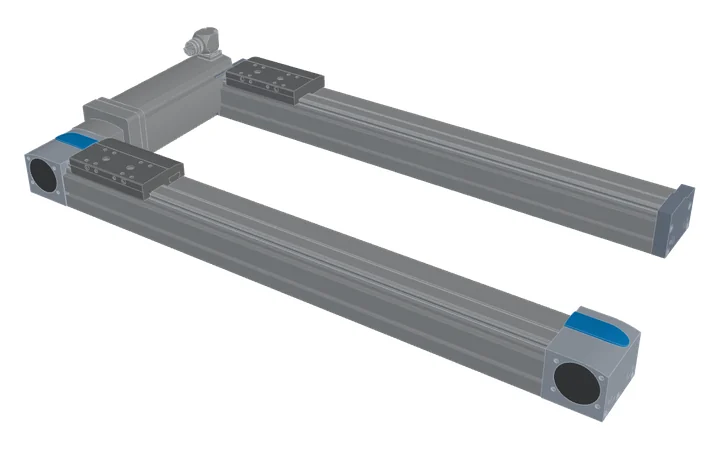
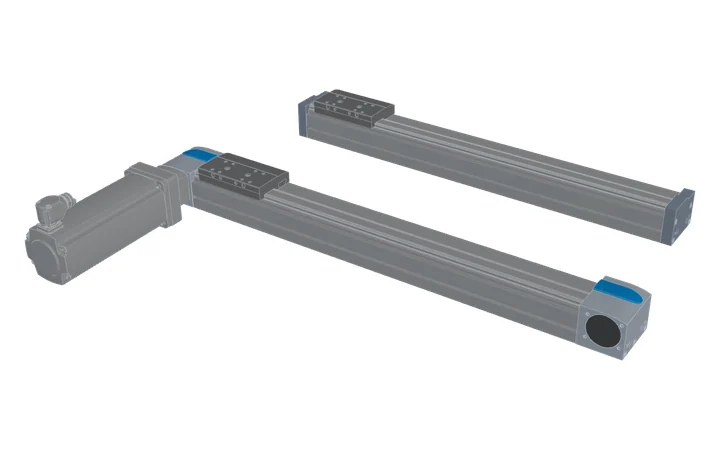
축 구성 help: picking a card sets the arrangement; motors of the twin and guide pictures turned outwards, clear of the other axis
Claude-Session: https://claude.ai/code/session_01H7nF5r8e2hD9Sm53hLJCce

Changed region(s): [[0.0306, 0.0622, 0.9167, 0.9333], [0.4278, 0.3111, 0.9778, 0.5911]]

diff --git a/src/ui/InputPanel.tsx b/src/ui/InputPanel.tsx
@@ -308,13 +308,20 @@ export function ParallelSection({
       <h2>
         {t(title)}
         <HelpTip title={t(title)}>
-          <div className="config-grid">
+          <div className="config-grid" role="radiogroup" aria-label={t(title)}>
             {(Object.keys(parallelModeLabel) as ParallelMode[]).map((m) => (
-              <div key={m} className={`config-card${m === parallel.mode ? ' active' : ''}`}>
+              <button
+                key={m}
+                type="button"
+                role="radio"
+                aria-checked={m === parallel.mode}
+                className={`config-card${m === parallel.mode ? ' active' : ''}`}
+                onClick={() => m !== parallel.mode && setParallel('mode', m)}
+              >
                 <img src={parallelModeImage[m]} alt="" />
                 <strong>{t(parallelModeLabel[m])}</strong>
                 <span>{t(parallelModeHint[m])}</span>
-              </div>
+              </button>
             ))}
           </div>
         </HelpTip>

diff --git a/src/index.css b/src/index.css
@@ -508,7 +508,7 @@ h3 {
   width: min(760px, calc(100vw - 32px));
 }
 
-/* 축 구성 help: one card per arrangement, the current one marked */
+/* 축 구성 help: one card per arrangement, the current one marked; picking one sets the arrangement */
 .config-grid {
   display: grid;
   grid-template-columns: repeat(auto-fit, minmax(260px, 1fr));
@@ -522,8 +522,17 @@ h3 {
   padding: 8px;
   border: 1px solid var(--line);
   border-radius: 8px;
+  background: none;
+  font: inherit;
   font-size: 12px;
   color: var(--muted);
+  text-align: left;
+  cursor: pointer;
+  transition: border-color 150ms ease-out;
+}
+
+.config-card:hover {
+  border-color: var(--line-strong);
 }
 
 .config-card.active {

diff --git a/CLAUDE.md b/CLAUDE.md
@@ -106,4 +106,4 @@ uvx … python scripts/interference/couplings.py   # exact coupling/kit overlap 
   - `types.ts`: `Requirements`, `Settings` with Excel-derived defaults, and the `Check`/`Status` model. A hard limit fails as `fail`. Deflection, rated-speed, regeneration and constant-velocity torque above the rated torque (`등속 구간 토크`; catches a long overloaded constant segment that a long dwell hides in the RMS) only `warn`; `Settings.conservative` (상세 설정 보수적 판정) makes the constant-velocity torque check `fail`. A missing data limit gives `ok` with a note.
 - `src/cad/`: CAD assembly. `combo.ts` `comboParts` places one axis's parts (and returns its slide and profile frames); `buildCombo` writes them out, `gantry.ts` combines several. `step.ts` reads/writes STEP Part 21 text (entity map, references, arguments); `structure.ts` finds product definitions, shape representations and solids. `stretch.ts` (`stretchPart`) changes a prismatic profile body's length in the text: points beyond a cut move along the axis, the cut sits where only axis-parallel lines cross it (edge extents from vertices, circle reach r·√(1−n_k²), arcs only where that extreme lies on them); shortening drops bounds and faces lying entirely in the removed window. A hole pattern (`patternOf`: bounds of the same shape across the axis repeating at one pitch, 3+ in a row; ELGT 100, EGC-HD 40/60) is kept: n whole pitches at a cut inside the pattern where the pitch before it repeats after it (`periodic`; lengthening fills the gap with copies of that pitch, `copyWindow`; shortening removes pattern only, so one-off features such as the ELGT-160 centring slot keep their place), the rest between the pattern and the moving end (n rounded, else floored/ceiled; no fit → the plain single cut). The spec is in file coordinates (turned into the part's own by its placement, `structure.ts` `placementOf`); `also` stretches further parts (ESBF piston rod), `move` shifts the placements of the parts at the moving end (end caps, the slide), and `stretchedOrigin` moves a drive or slide frame lying there (`buildCombo`). `assemble.ts` copies each part file with offset ids under a new top assembly (AP203 `CONFIG_CONTROL_DESIGN`, mm, NAUO + `ITEM_DEFINED_TRANSFORMATION` per part, ASCII-only names, the parts' licence lines in `FILE_DESCRIPTION`). `drawings.ts` lists the files (`import.meta.glob` `?url`, loaded on demand) and matches them to the selection; `combo.ts` (`buildCombo`) places axis → kit → (gearbox →) motor by `geometry.mate` of their frames, turns the axis's own jaw coupling hub (ELGT-BS / ELGD-BS files, `AxisMeta.coupling`) so its jaws mesh with the kit hub's (`KitMeta.coupling`, `turnHub`; Festo EAMM-A and Festo Korea's GT…/GD… SA kits), moves a coupling filed reaching into the axis to the middle of the kit housing (`KitMeta.couplingShift`, `placeCoupling`: EAMM-A-D50/-D60/-S60 to the middle of the housing, others touching a shaft end or cover by the least that clears it, from `scripts/festo-cad/couplings.mjs`), takes the cover cap off the shaft end the kit goes on where the head is capped on both sides (EGC-HD-TB; ELGT-TB-120/-160-…-CS, whose Creo files name the caps by part number 2493424/2493425), orients the axis by the mounting (world Z up; floor: travel +X, slide normal +Z; wall: normal −Y; vertical: motor on top, normal −Y; slide centre at the origin) and puts the COG at travel·x + (normal × travel)·y + normal·z. `occt.ts` tessellates the assembled STEP with occt-import-js (OpenCascade WASM, lazy) in a web worker (`occt.worker.ts` → `occtMesh.ts`; typed arrays transferred back, the 3D view's edge lines computed there too; on the calling thread where there is no `Worker`, as in tests) and tags meshes by part; `dxf.ts` draws front/top/right/bottom views (third-angle; the bottom view below the front view shows the mounting holes) from those meshes: B-rep face borders above 10° plus outlines (front/edge-on/back changes, so rounded profile corners and edge-on faces show), hidden parts removed with a CPU depth buffer (3×3 neighbourhood minimum; no hidden lines, an assembly outline drawing), collinear pieces merged, as DXF R12 on a sheet after KS A 0005 / KS B 0001 / KS A 0106 (`drawingDxf`): model space full size, the sheet drawn at the scale (paper mm × denominator, `$LTSCALE`); the smallest A3–A0 landscape sheet on which the views fit at 1:3 or larger (recommended scales 2:1 … 1:500 plus 1:3), else A0 at its best scale, the views above or left of the title block column; border 0.7 mm with 20 / 10 mm margins and a 25 mm filing margin, centring marks; outlines thick (0.5 mm wide polylines), dimensions thin with filled arrows (height on the front view, depth on the top view, length below the bottom view, each once, values in mm without unit; the stroke `STROKE n` between the slide centre at its start and end, `Combo.stroke`, above the front view; the axis's mounting holes on the bottom view, `mountingHoles` on the axis part's meshes (`DrawingInput.axisMeshes`): vertical cylinder walls, split arcs merged, opening within 1.5 mm of its underside; the pitch chain of the longest row of the commonest size from axis end to end, equal pitches as `n×p(=total)`, the row spacing on the right and an `n×Ød` callout per size), COG as thin two-dot chain lines (PHANTOM) with a circle; title block (170 mm: TITLE, DWG. NO., SCALE, third-angle symbol, UNIT mm, DATE), parts list above it (NO., PART, MODEL / TYPE, QTY, header at the bottom), the specification table above that (`DrawingInput.specs`, from step 5: stroke, product mass, payload, ball screw lead / diameter or pulley diameter / feed, max. speed at the stroke, max. permissible acceleration, max. feed force, repeatability, operating speed / acceleration) and the notes (ASCII text; layers OUTLINE, DIM, COG, COG-MARK, TEXT, BORDER, TITLE). `layoutSheet` lays the sheet out as primitives (`Sheet`), written as DXF (`toDxf`) or, by `drawingPdf.ts` (jsPDF, lazy), as a PDF page of the sheet size at the drawing scale (black, thick lines at their width, thin 0.25 mm, COG dashed two-dot chain; the sheet's words in the app language, `SheetLabels` from `useComboPreview` `sheetLabels`, the DXF keeps the English `DEFAULT_LABELS`): step 5's PDF 도면 내보내기 next to DXF 내보내기. The PDF's font is Malgun Gothic from the user's own fonts (`loadKoreanFont`: Local Font Access, asked within the click; Microsoft's licence does not allow shipping it), else the bundled Pretendard TTF (OFL, `?inline`, lazy); jsPDF embeds only the glyphs used. `cad.test.ts` builds the real combination and reads it back with OpenCascade.
 - `src/i18n/`: Korean/English. Korean source strings are the translation keys: components call `useT()` and write `t('스트로크')` or `t('적합 {pass}', { pass })`; `en.ts` holds the English. Calc labels and notes stay Korean (`Check.note` may have `{name}` placeholders filled from `noteArgs`) and are translated where shown, so lookups like `c.label === '관성비'` keep working. `translateData` handles the Korean words in product data (motor series/description). `i18n.test.ts` fails when a Korean string literal in `src/` has no English entry, or when Korean sits outside a string (JSX text) or in the static part of a template literal. Add the English to `en.ts` with any new UI text. The language toggle is in `RouteRail`; the choice is kept in localStorage and sets `<html lang>`. The PDF report follows the current language.
-- `src/ui/` contains the React components. `App.tsx` holds the inputs (`req`, `settings`, language) and wraps `Workspace` (selection state, calculation, results, rail, report; auto-selects the first passing axis) in `ErrorBoundary`: a render or calculation error shows the inputs plus an error panel instead of a blank page, and editing an input retries. `InputPanel.tsx` is three boxes: 사용 조건 (acceleration entered as 가속도 or as 가속 시간 to reach the velocity; time mode converts with `accelerationForTime`, jerk included, so `Requirements.acceleration` stays the only calc input; the jerk field's hint gives the S-curve share of the acceleration time, `sCurveShare`: 0% trapezoidal, 100% no constant-acceleration part, on both screens) + 부하 무게 중심 (the 무게 중심 입력 가이드 image in its help popup: guidance text sits behind the ? beside a title, `HelpTip` in common.tsx or `NumberField` `help`, in the `.notice` dialog; `hint` under a field is for live values, warnings stay inline; 축 구성's popup shows every arrangement with its picture, `images/parallel_*.webp`, EGC-80 belt axes rendered from the step 5 3D view); 어플리케이션 선택 (일반 / 프레싱, with the press inputs and, on a vertical axis, 압착 방향); and a collapsible 상세 설정 box. Axis/motor filters (`Settings.families`, `makers`, …; ESBF is hidden while 벨트 is on) are toggle buttons in each step's header (column sorting compares the numbers in names by value, `useSort`: sizes 60, 80, 120, 160; Festo motors of one size by length S, M, L, H, `MotorStep` `lengthOrdered`); 볼스크류 / 벨트, the motor maker and the motor series are one-of choices (`RadioGroup`); picking a series switches the supply to one it runs on (the current one if it does, `MotorStep` `supplyFor`) and disables the supplies it has none for. Defaults (`defaultSettings`): 볼스크류 + ELGT, Festo EMMT-AS (Festo series listed EMMT-AS, -ST, -EC, EMMB-AS, -ST, EMMH-AS, `motorFamilies`), AC 380–480 V; acceleration 2 m/s² on both screens. Calc tests open every filter. `RouteRail.tsx` is the sticky top rail: four route signs (selected part number, verdict, tightest check) that scroll to their step and highlight the step in view, plus PDF로 내보내기 and the English/한국어 switch (PDF export is blocked with a notice until axis, motor and kit are selected; `App.tsx` mounts `Report.tsx` off screen in `.report-stage`, `pdfExport.ts` renders each chapter to an image with `modern-screenshot` and lays them on A4 pages with `jspdf`, both lazy-loaded, then opens the PDF in a new tab. Chapter 1's 웹에서 이 계산 열기 line becomes a PDF link to the same calculation (`pdfExport` lays a link area over each `.report-link`): `src/share.ts` packs the screen's inputs and choices (single axis: `req`, `settings`, picks, profile view, assembly; gantry: inputs, per-axis settings, picks, views, assemblies, open tab) as deflated JSON, base64url, in `?r=`; `main.tsx` reads it (`readShared`, fields added since filled from the defaults) before `App` mounts and takes it out of the address. The calculation report: 1 입력 데이터·선정 모델 (the arrangement lists the EAGF as 가이드 유닛; the settings leave out 보수적 판정), 2 모션 프로파일, 3 축, 4 모터 and, for Festo motors, a second 4 page 드라이브 · 케이블 · 제동저항, 5 감속기 (the selected gearbox only, with its own checks from `gearboxChecks`), 6 연결키트 (with the assembly orientation and its warnings); each chapter starts a new page). `MotionProfile` (chart + profile numbers; collapsing hides only the chart) sits above the steps, which render in order 축 → 모터 (+ 감속기) → 연결키트 → 도면; the axis details split off the guide's (guide axes / EAGF) checks and info items into a `{model} 세부사항` block of their own below them (`format.ts` `guideDetail`), the report likewise; step sections carry ids `step-axis`, `step-motor` (with `step-gearbox` inside), `step-kit`, `step-drawing`. `DrawingStep.tsx` (step 5 도면, after the kit) lists the drawing file found for each part (note when the axis length is adjusted or the motor file is another option), the 모터 위치 for belt axes (4 choices, 앞 · 좌측 / 앞 · 우측 / 뒤 · 좌측 / 뒤 · 우측 from `drivePositionWords`: the end as in the front view, 앞 = left (−X), 뒤 = right; 우측 = the shaft end on the side the slide stands out to (`slide.front` in the axis JSON, EGC-TB-KF) and 좌측 the other, else the side in the front view (우측 = towards the viewer); under motor sync the 축 배치 choice puts the axes side by side (slides up) or turned on their sides with the slides facing each other across the spacing (`ComboOptions.twinFacing`, `facingTurn`: each axis with its drive train a quarter turn about its travel, the COG turned with the first slide like the 무게 중심 입력 가이드 (x travel, y from the slide centre, z along its normal, towards the second axis); single axis screen only, the gantry keeps them side by side; drawing only, the calc keeps the mounting; not under shaft sync, whose drive shafts would no longer line up), and the second axis has its own 모터 위치, 키트 조립 방향 and 모터 조립 방향 (`ComboOptions.twinDrive`, `twinKitSide`, `twinMotorConnector`, `twinOrientation`; by default the mirror image of the first across the plane between them (`mirroredDrive`): with a centred slide (ELGD-TB, EGC-HD-TB) drive head at the same end and motor on the other shaft end; with the EGC-TB-KF slide standing out to one side (`slide.front`) the same position drawn mirrored (`mirrorAxis`, motor and shaft sync): the axis turned end for end with its drive at the other head (both heads alike, so the drive end stays where the position puts it), its slide part (`…TB1--------`, `moveSlide`) at the far end of the travel when turned against the first, so the slides line up, and the cover cap over the drive's shaft end moved to the open shaft end of the head the drive left; the axis turned first and its drive train assembled on it, every choice meaning the same direction as on the first: the second's kit side and connector default to the first's (`twinOrientation`) and swap left and right when it is drawn with its motor end facing the other way (`train`'s `reference`, `mirrorSides`), and its motor positions are named by the direction the motor points (`twinPositionWords`: drawn mirrored, the words of the other shaft end); a change on the first axis fixes the second's kit side and connector first, so each is set on its own, while the second's motor position keeps mirroring the first's until it is picked; `buildCombo` builds its drive train separately; the report lists both axes); `ComboOptions.drive` `otherSide` mirrors the drive frame to the other shaft end and moves the shaft cover cap (CUP) there off it, `otherEnd` turns the axis end for end about the slide normal), the 모터 조립 방향 (connector side, any kit) and, for a parallel kit, the 키트 조립 방향 (side the motor sits on), 상/하/좌/우 seen from the motor end of the axis with the slide surface up (`ComboOptions`, kept in `Workspace` as `assembly` because the report prints it; kit default 하, connector automatic until picked: the kit side with a parallel kit, 상 with an axial one, `connectorSide`; `buildCombo` turns the kit about the drive shaft and the motor about its shaft, `MotorMeta.connector` defaulting to `flange.up`, −y for Mitsubishi; `assemblyWarnings`: the connector faces the axis, and for 상 the motor on the slide side can shorten the usable stroke), and offers 3D 미리보기 (`useComboPreview.ts` + `ComboPreviewPanel.tsx`, shared with the gantry drawing; `comboInputs.ts` gives one axis's selection, drawings and twin; drawing files fetched once per page and cached, one retry on a network error; the open preview rebuilds 400 ms after the inputs settle; lazy `ComboViewer.tsx`, three.js with OrbitControls, Z up, a view cube top right (turns with the camera; click a face, edge or corner to look from there, drag it to orbit; ⌂ = the isometric home view), part colours and the COG ball; follows the selection once opened), STEP 내보내기 and DXF 내보내기 (downloads); a combination is built once per selection and cached. With 감속기 미사용 the drive is direct (axis-kit-motor), step 3 only says so, and the kit is matched to the motor. With 감속기 사용, `App.tsx` evaluates every compatible gearbox for the selected motor and `GearboxStep.tsx` `GearboxChoice` lists them inside the motor step, between the motor list and the motor details (id `step-gearbox`, the rail's 감속기 sign; step 3 under 감속기 사용, then the kit is step 4 and the drawing 5; hidden with 감속기 미사용, the kit then step 3 and the drawing 4, and the rail drops its 감속기 sign, `RouteRail` `gearbox`); the motor step's recommended gearbox is applied until the user picks another one there, and the kit is matched to the gearbox output. Changing the axis or motor goes back to the recommendation. `KitStep.tsx` (step 4) lists every kit for the selected axis and drive in one table (`orderKits`: axial before parallel, then without inspection window before with one), with columns 판정, 연결 방식 (직렬/병렬), 견시창 O/X, 모델명, 커플링 / 풀리 품번 and the 전달 토크 / 회전수 load bars; the selected kit shows its checks, data sheet values and 추가 검토사항. App keeps the selection and falls back to the first listed kit that does not fail. The rail's kit sign shows the kit verdict and its tightest check; the report's chapter 6 prints the same checks and notes. `ProfileChart.tsx` (`ProfilePlot` is the bare chart, reused by the report) plots the full cycle (왕복, default) or one move (forward or return), with the dwell between the moves of the cycle (after the return when pressing) and at the end of one move (shaded `.chart-dwell`; press spans `.chart-press`). The view lives in `Workspace` and the PDF report prints the same view — position, velocity, acceleration, jerk and torque — from `tracePhases`, using `AxisEvaluation.driveAt` and `motorTorqueFn` for the torque (motor shaft when a motor is selected, else axis drive shaft).
+- `src/ui/` contains the React components. `App.tsx` holds the inputs (`req`, `settings`, language) and wraps `Workspace` (selection state, calculation, results, rail, report; auto-selects the first passing axis) in `ErrorBoundary`: a render or calculation error shows the inputs plus an error panel instead of a blank page, and editing an input retries. `InputPanel.tsx` is three boxes: 사용 조건 (acceleration entered as 가속도 or as 가속 시간 to reach the velocity; time mode converts with `accelerationForTime`, jerk included, so `Requirements.acceleration` stays the only calc input; the jerk field's hint gives the S-curve share of the acceleration time, `sCurveShare`: 0% trapezoidal, 100% no constant-acceleration part, on both screens) + 부하 무게 중심 (the 무게 중심 입력 가이드 image in its help popup: guidance text sits behind the ? beside a title, `HelpTip` in common.tsx or `NumberField` `help`, in the `.notice` dialog; `hint` under a field is for live values, warnings stay inline; 축 구성's popup shows every arrangement with its picture, picking one sets it like the menu, `images/parallel_*.webp`, EGC-80 belt axes rendered from the step 5 3D view); 어플리케이션 선택 (일반 / 프레싱, with the press inputs and, on a vertical axis, 압착 방향); and a collapsible 상세 설정 box. Axis/motor filters (`Settings.families`, `makers`, …; ESBF is hidden while 벨트 is on) are toggle buttons in each step's header (column sorting compares the numbers in names by value, `useSort`: sizes 60, 80, 120, 160; Festo motors of one size by length S, M, L, H, `MotorStep` `lengthOrdered`); 볼스크류 / 벨트, the motor maker and the motor series are one-of choices (`RadioGroup`); picking a series switches the supply to one it runs on (the current one if it does, `MotorStep` `supplyFor`) and disables the supplies it has none for. Defaults (`defaultSettings`): 볼스크류 + ELGT, Festo EMMT-AS (Festo series listed EMMT-AS, -ST, -EC, EMMB-AS, -ST, EMMH-AS, `motorFamilies`), AC 380–480 V; acceleration 2 m/s² on both screens. Calc tests open every filter. `RouteRail.tsx` is the sticky top rail: four route signs (selected part number, verdict, tightest check) that scroll to their step and highlight the step in view, plus PDF로 내보내기 and the English/한국어 switch (PDF export is blocked with a notice until axis, motor and kit are selected; `App.tsx` mounts `Report.tsx` off screen in `.report-stage`, `pdfExport.ts` renders each chapter to an image with `modern-screenshot` and lays them on A4 pages with `jspdf`, both lazy-loaded, then opens the PDF in a new tab. Chapter 1's 웹에서 이 계산 열기 line becomes a PDF link to the same calculation (`pdfExport` lays a link area over each `.report-link`): `src/share.ts` packs the screen's inputs and choices (single axis: `req`, `settings`, picks, profile view, assembly; gantry: inputs, per-axis settings, picks, views, assemblies, open tab) as deflated JSON, base64url, in `?r=`; `main.tsx` reads it (`readShared`, fields added since filled from the defaults) before `App` mounts and takes it out of the address. The calculation report: 1 입력 데이터·선정 모델 (the arrangement lists the EAGF as 가이드 유닛; the settings leave out 보수적 판정), 2 모션 프로파일, 3 축, 4 모터 and, for Festo motors, a second 4 page 드라이브 · 케이블 · 제동저항, 5 감속기 (the selected gearbox only, with its own checks from `gearboxChecks`), 6 연결키트 (with the assembly orientation and its warnings); each chapter starts a new page). `MotionProfile` (chart + profile numbers; collapsing hides only the chart) sits above the steps, which render in order 축 → 모터 (+ 감속기) → 연결키트 → 도면; the axis details split off the guide's (guide axes / EAGF) checks and info items into a `{model} 세부사항` block of their own below them (`format.ts` `guideDetail`), the report likewise; step sections carry ids `step-axis`, `step-motor` (with `step-gearbox` inside), `step-kit`, `step-drawing`. `DrawingStep.tsx` (step 5 도면, after the kit) lists the drawing file found for each part (note when the axis length is adjusted or the motor file is another option), the 모터 위치 for belt axes (4 choices, 앞 · 좌측 / 앞 · 우측 / 뒤 · 좌측 / 뒤 · 우측 from `drivePositionWords`: the end as in the front view, 앞 = left (−X), 뒤 = right; 우측 = the shaft end on the side the slide stands out to (`slide.front` in the axis JSON, EGC-TB-KF) and 좌측 the other, else the side in the front view (우측 = towards the viewer); under motor sync the 축 배치 choice puts the axes side by side (slides up) or turned on their sides with the slides facing each other across the spacing (`ComboOptions.twinFacing`, `facingTurn`: each axis with its drive train a quarter turn about its travel, the COG turned with the first slide like the 무게 중심 입력 가이드 (x travel, y from the slide centre, z along its normal, towards the second axis); single axis screen only, the gantry keeps them side by side; drawing only, the calc keeps the mounting; not under shaft sync, whose drive shafts would no longer line up), and the second axis has its own 모터 위치, 키트 조립 방향 and 모터 조립 방향 (`ComboOptions.twinDrive`, `twinKitSide`, `twinMotorConnector`, `twinOrientation`; by default the mirror image of the first across the plane between them (`mirroredDrive`): with a centred slide (ELGD-TB, EGC-HD-TB) drive head at the same end and motor on the other shaft end; with the EGC-TB-KF slide standing out to one side (`slide.front`) the same position drawn mirrored (`mirrorAxis`, motor and shaft sync): the axis turned end for end with its drive at the other head (both heads alike, so the drive end stays where the position puts it), its slide part (`…TB1--------`, `moveSlide`) at the far end of the travel when turned against the first, so the slides line up, and the cover cap over the drive's shaft end moved to the open shaft end of the head the drive left; the axis turned first and its drive train assembled on it, every choice meaning the same direction as on the first: the second's kit side and connector default to the first's (`twinOrientation`) and swap left and right when it is drawn with its motor end facing the other way (`train`'s `reference`, `mirrorSides`), and its motor positions are named by the direction the motor points (`twinPositionWords`: drawn mirrored, the words of the other shaft end); a change on the first axis fixes the second's kit side and connector first, so each is set on its own, while the second's motor position keeps mirroring the first's until it is picked; `buildCombo` builds its drive train separately; the report lists both axes); `ComboOptions.drive` `otherSide` mirrors the drive frame to the other shaft end and moves the shaft cover cap (CUP) there off it, `otherEnd` turns the axis end for end about the slide normal), the 모터 조립 방향 (connector side, any kit) and, for a parallel kit, the 키트 조립 방향 (side the motor sits on), 상/하/좌/우 seen from the motor end of the axis with the slide surface up (`ComboOptions`, kept in `Workspace` as `assembly` because the report prints it; kit default 하, connector automatic until picked: the kit side with a parallel kit, 상 with an axial one, `connectorSide`; `buildCombo` turns the kit about the drive shaft and the motor about its shaft, `MotorMeta.connector` defaulting to `flange.up`, −y for Mitsubishi; `assemblyWarnings`: the connector faces the axis, and for 상 the motor on the slide side can shorten the usable stroke), and offers 3D 미리보기 (`useComboPreview.ts` + `ComboPreviewPanel.tsx`, shared with the gantry drawing; `comboInputs.ts` gives one axis's selection, drawings and twin; drawing files fetched once per page and cached, one retry on a network error; the open preview rebuilds 400 ms after the inputs settle; lazy `ComboViewer.tsx`, three.js with OrbitControls, Z up, a view cube top right (turns with the camera; click a face, edge or corner to look from there, drag it to orbit; ⌂ = the isometric home view), part colours and the COG ball; follows the selection once opened), STEP 내보내기 and DXF 내보내기 (downloads); a combination is built once per selection and cached. With 감속기 미사용 the drive is direct (axis-kit-motor), step 3 only says so, and the kit is matched to the motor. With 감속기 사용, `App.tsx` evaluates every compatible gearbox for the selected motor and `GearboxStep.tsx` `GearboxChoice` lists them inside the motor step, between the motor list and the motor details (id `step-gearbox`, the rail's 감속기 sign; step 3 under 감속기 사용, then the kit is step 4 and the drawing 5; hidden with 감속기 미사용, the kit then step 3 and the drawing 4, and the rail drops its 감속기 sign, `RouteRail` `gearbox`); the motor step's recommended gearbox is applied until the user picks another one there, and the kit is matched to the gearbox output. Changing the axis or motor goes back to the recommendation. `KitStep.tsx` (step 4) lists every kit for the selected axis and drive in one table (`orderKits`: axial before parallel, then without inspection window before with one), with columns 판정, 연결 방식 (직렬/병렬), 견시창 O/X, 모델명, 커플링 / 풀리 품번 and the 전달 토크 / 회전수 load bars; the selected kit shows its checks, data sheet values and 추가 검토사항. App keeps the selection and falls back to the first listed kit that does not fail. The rail's kit sign shows the kit verdict and its tightest check; the report's chapter 6 prints the same checks and notes. `ProfileChart.tsx` (`ProfilePlot` is the bare chart, reused by the report) plots the full cycle (왕복, default) or one move (forward or return), with the dwell between the moves of the cycle (after the return when pressing) and at the end of one move (shaded `.chart-dwell`; press spans `.chart-press`). The view lives in `Workspace` and the PDF report prints the same view — position, velocity, acceleration, jerk and torque — from `tracePhases`, using `AxisEvaluation.driveAt` and `motorTorqueFn` for the torque (motor shaft when a motor is selected, else axis drive shaft).
